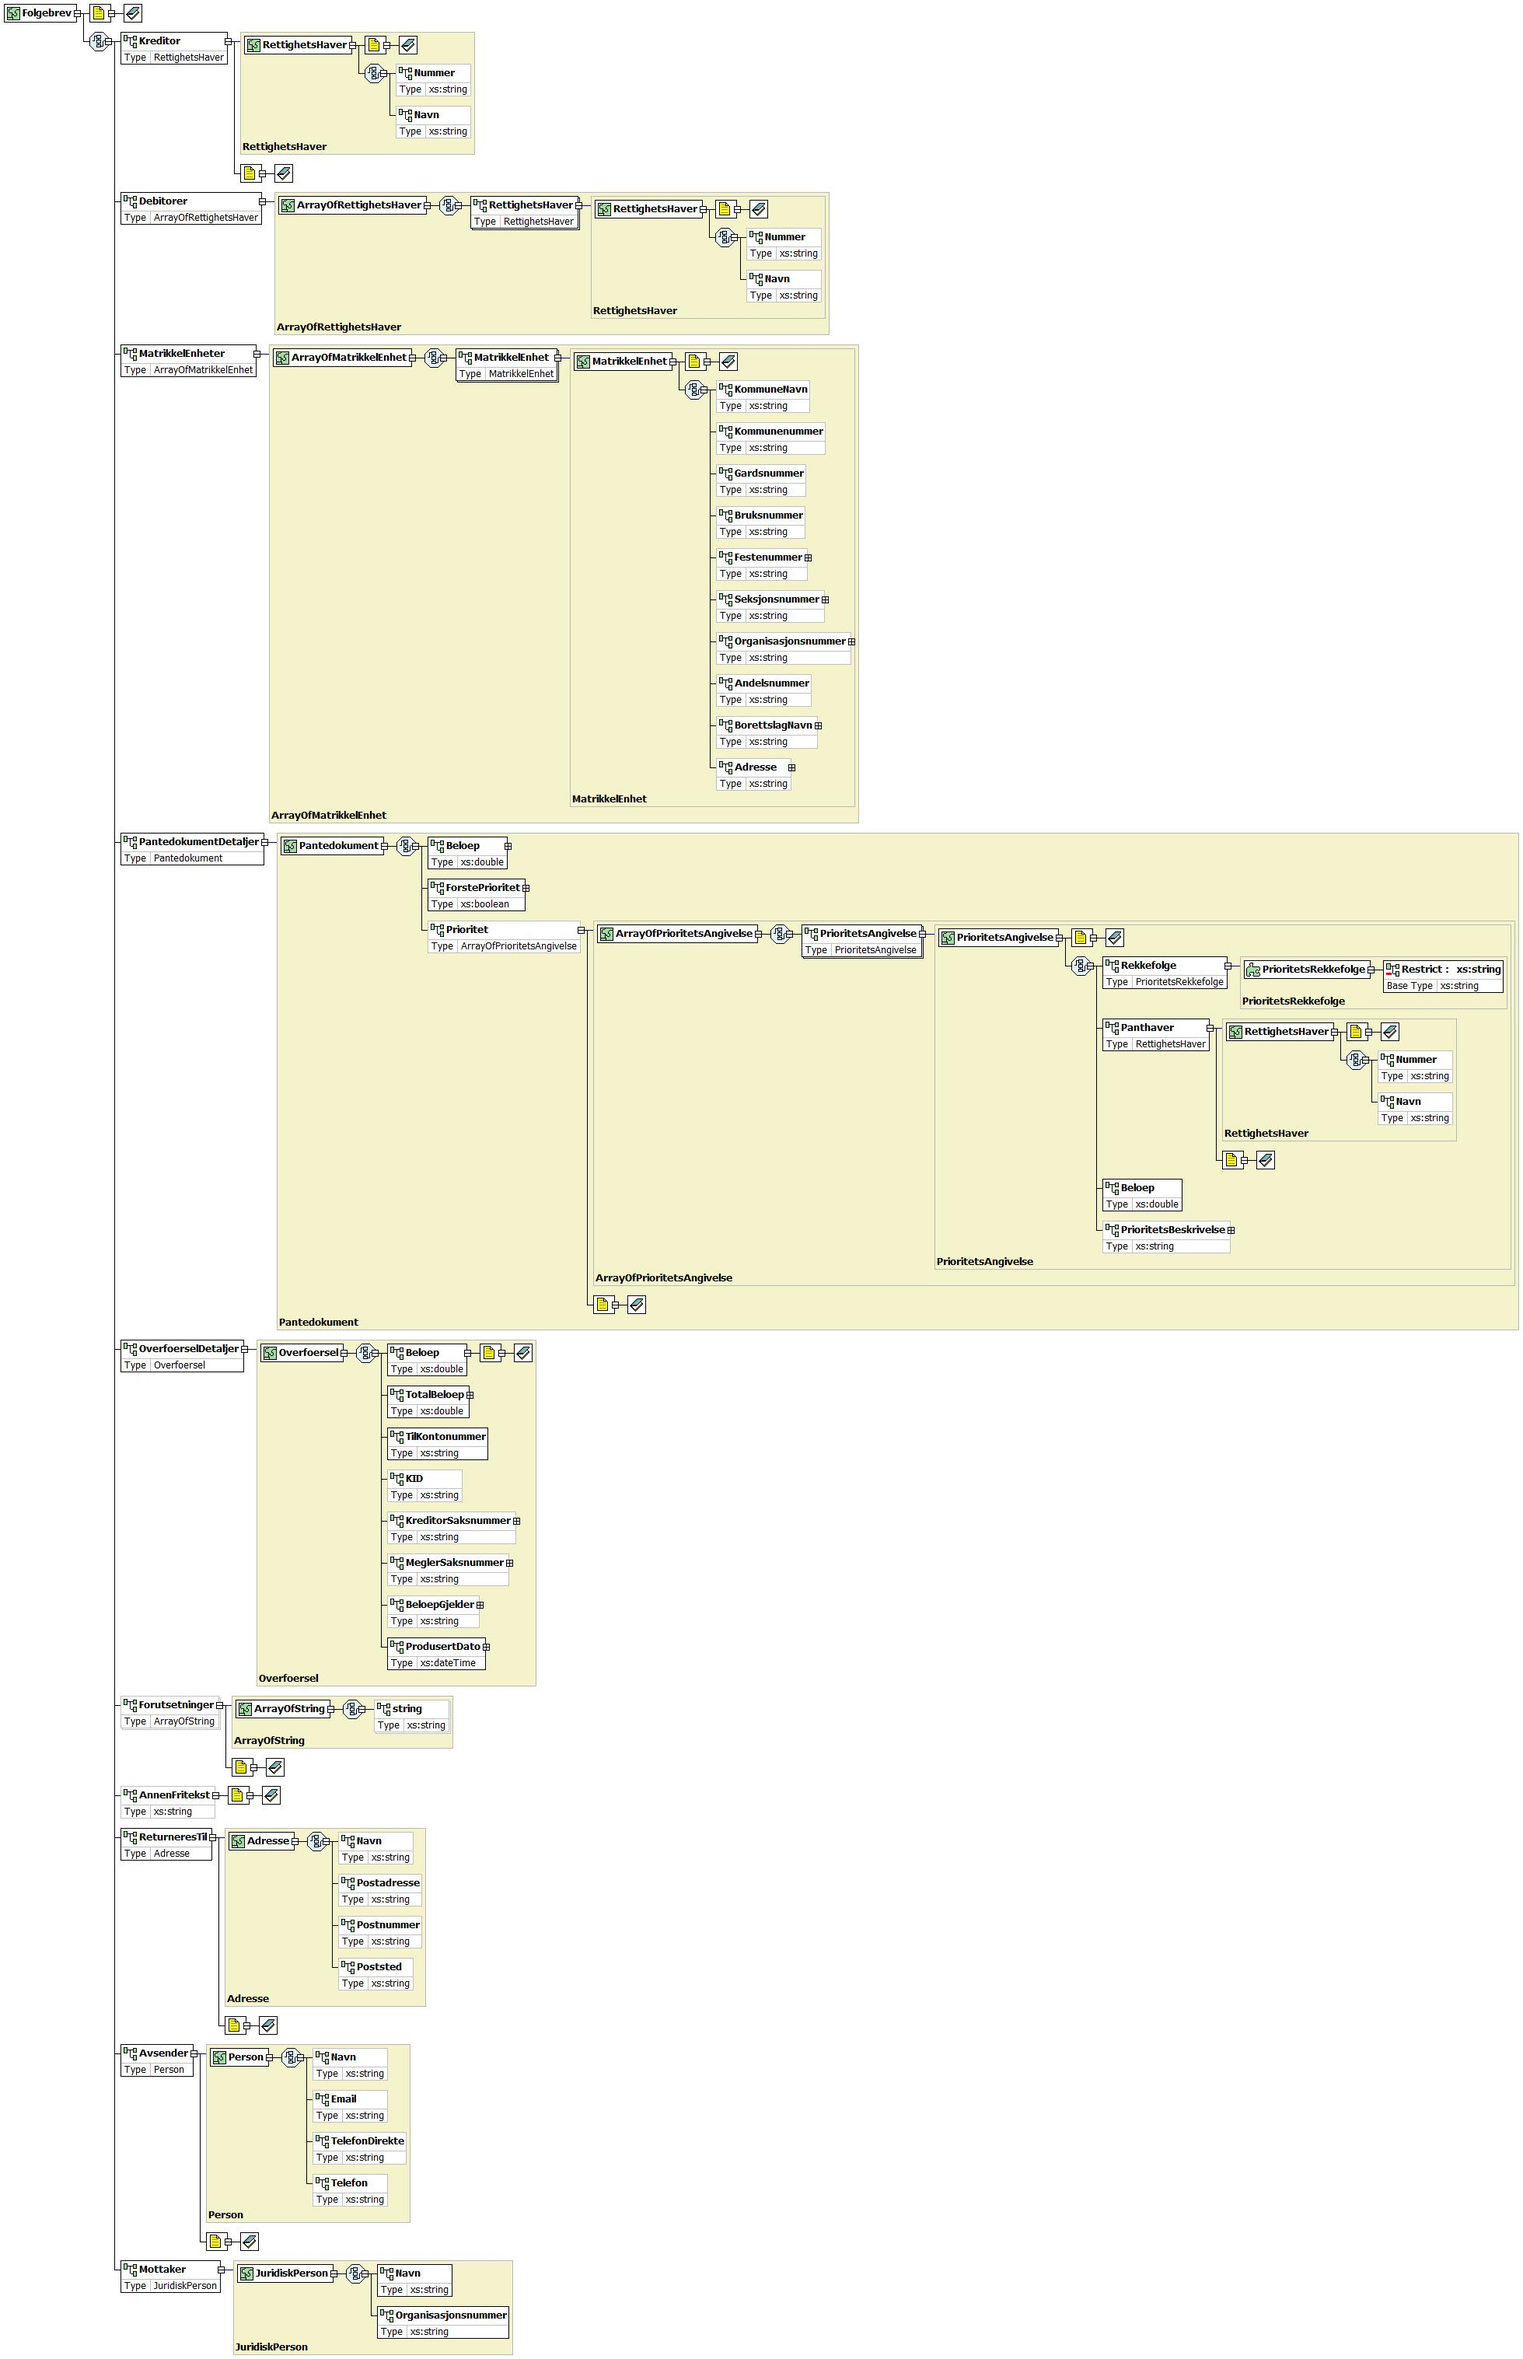
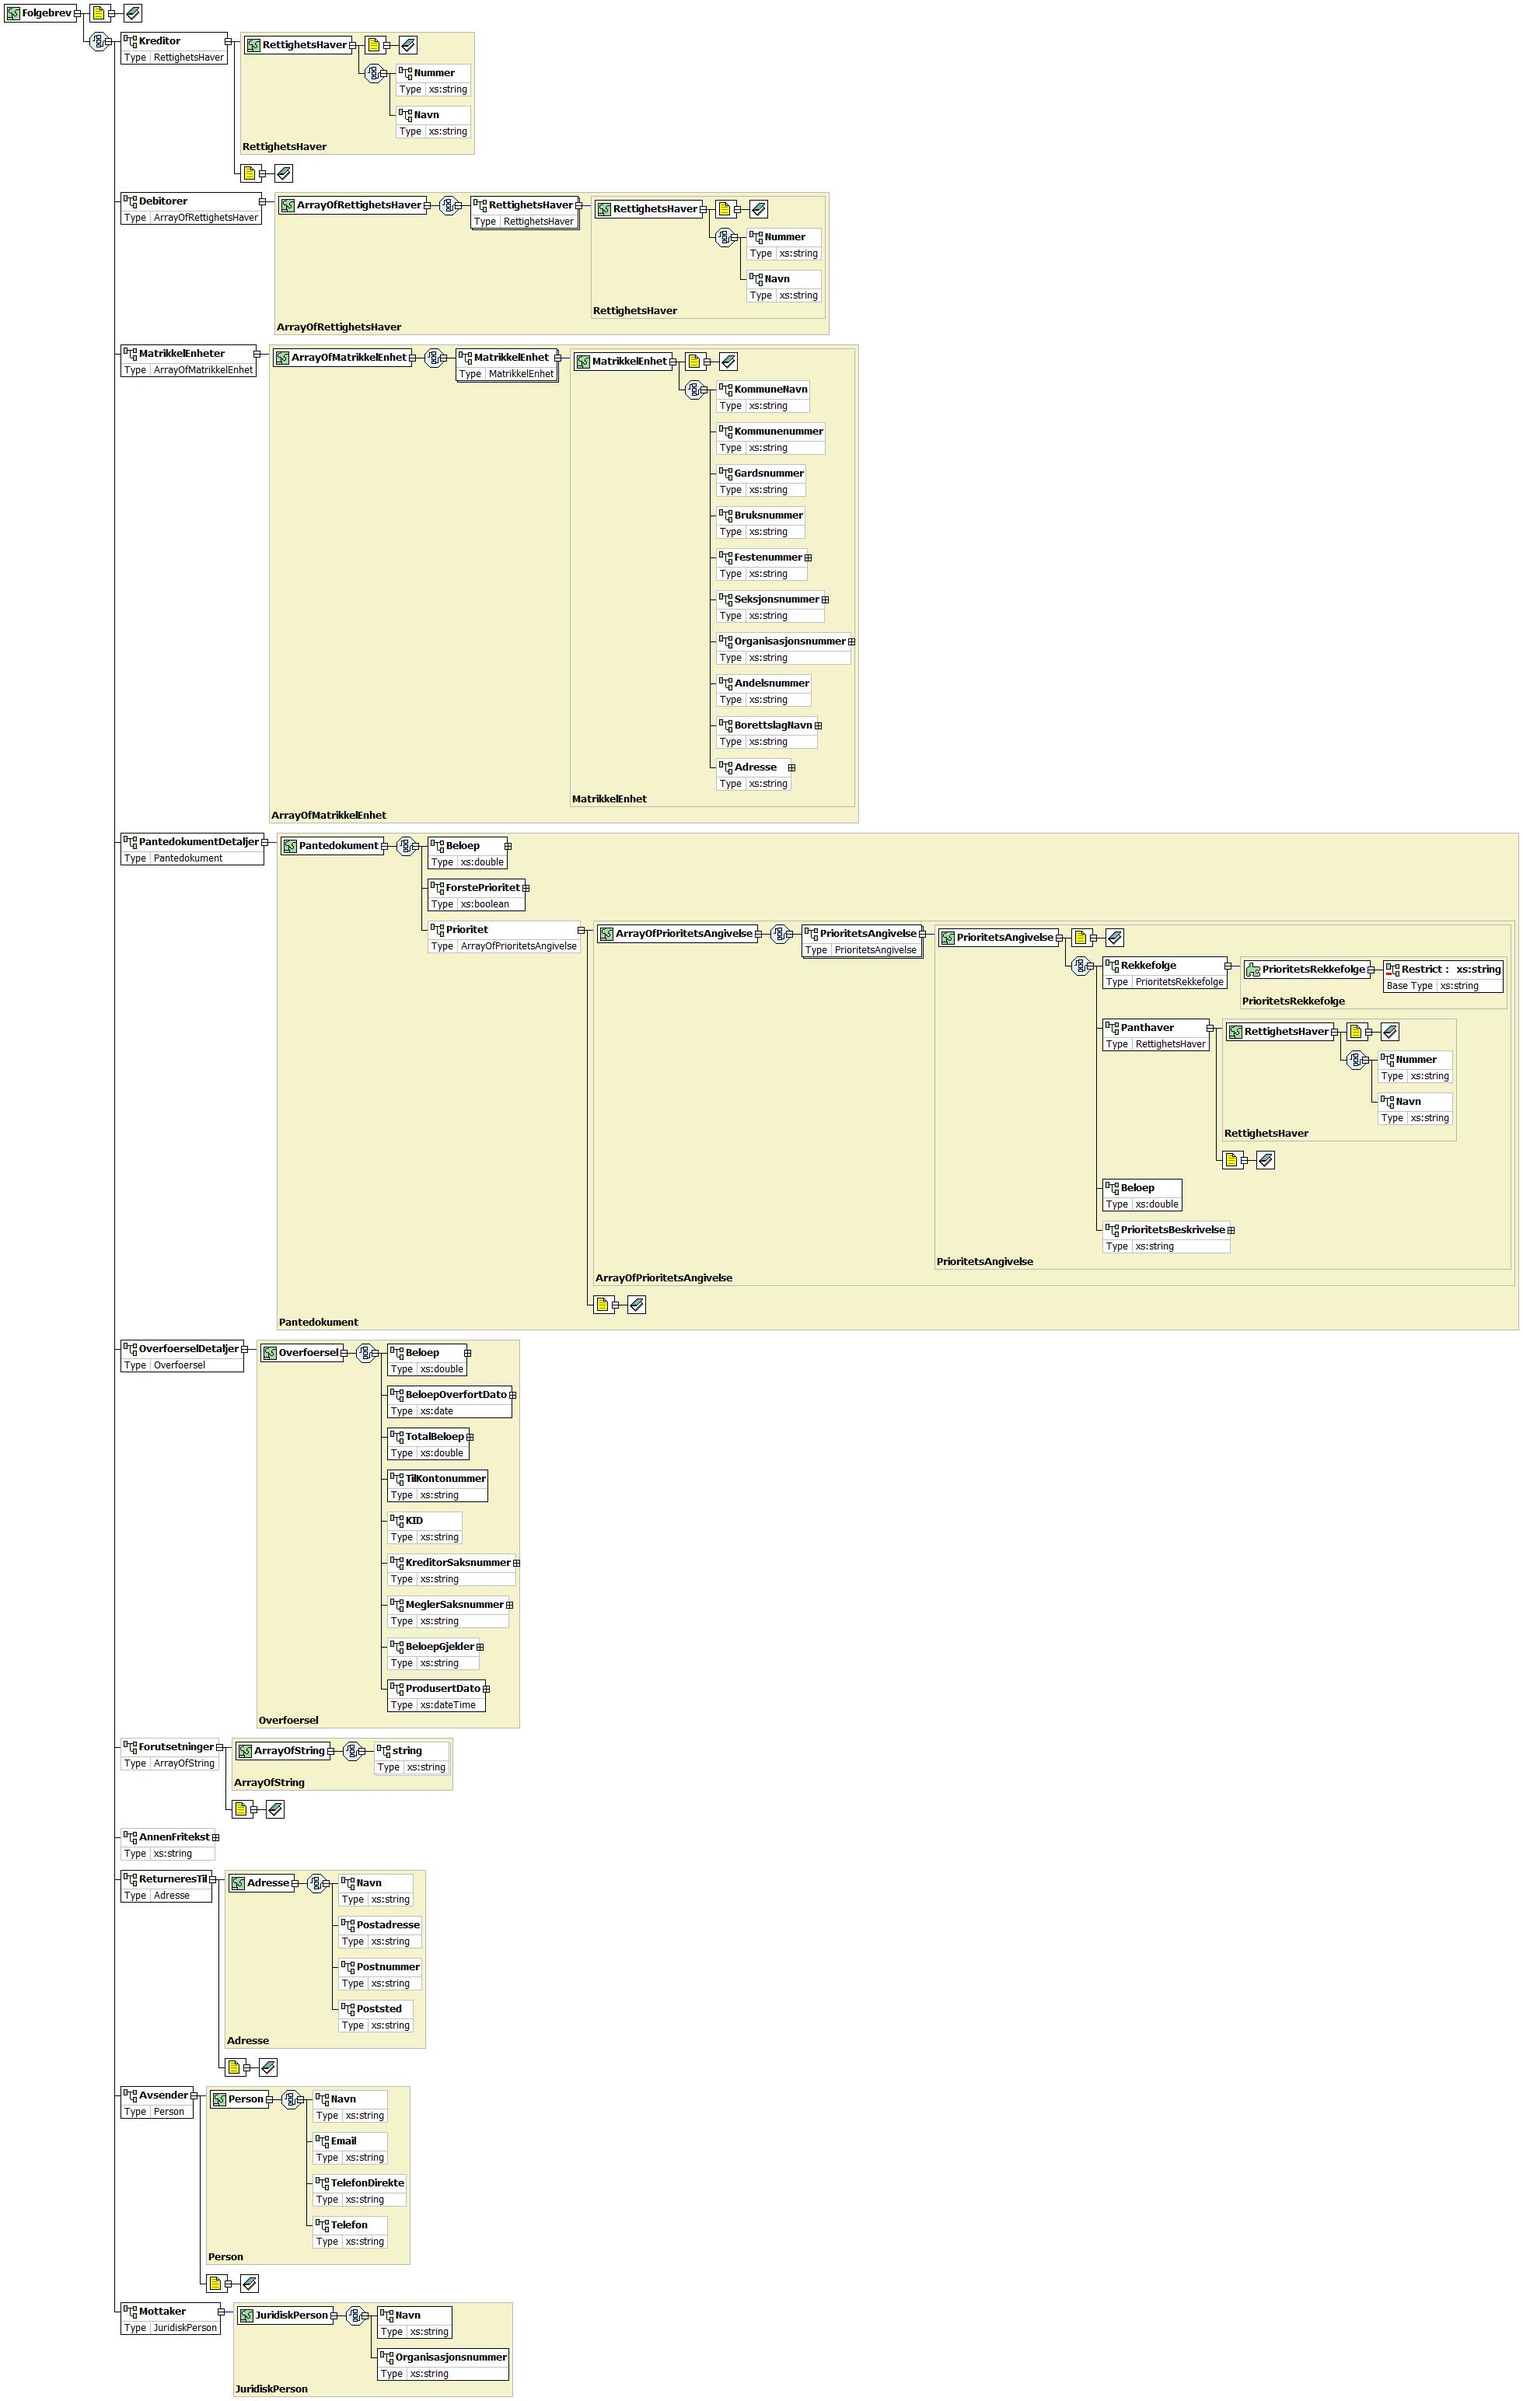
xslt: endret "Overført fra" til "Rettighetshavere" som er mer semantisk korrekt. oppdatert eksempelkode og screenshots

Changed region(s): [[0.0623, 0.0, 0.9964, 1.0], [0.2491, 0.9604, 0.3114, 0.9914], [0.0934, 0.9604, 0.1246, 0.9914]]

diff --git a/spesifikasjoner/afpant/afpant-folgebrev/afpant-folgebrev-example/Program.cs b/spesifikasjoner/afpant/afpant-folgebrev/afpant-folgebrev-example/Program.cs
@@ -6,7 +6,7 @@ using System.Text;
 using System.Threading.Tasks;
 using System.Xml;
 using System.Xml.Serialization;
-using static AFPANT.Folgebrev;
+using static Folgebrev;
 
 namespace afpant_folgebrev_example
 {
@@ -20,7 +20,7 @@ namespace afpant_folgebrev_example
         static void Example1()
         {
 
-            var folgebrev = new AFPANT.Folgebrev();
+            var folgebrev = new Folgebrev();
 
             folgebrev.Mottaker = new JuridiskPerson()
             {
@@ -46,7 +46,7 @@ namespace afpant_folgebrev_example
                     Navn="Anne Arnesen",
                     Nummer="01017922113"
                 }
-            };
+            }.ToArray();
 
             folgebrev.MatrikkelEnheter = new List<MatrikkelEnhet>()
             {
@@ -59,7 +59,7 @@ namespace afpant_folgebrev_example
                      Festenummer="0",
                      Seksjonsnummer="41"
                 }
-            };
+            }.ToArray();
 
             folgebrev.PantedokumentDetaljer = new Pantedokument()
             {
@@ -70,6 +70,7 @@ namespace afpant_folgebrev_example
             folgebrev.OverfoerselDetaljer = new Overfoersel()
             {
                 Beloep = 2100000,
+                BeloepOverfortDato = DateTime.Now.AddDays(-2).Date,                          
                 TotalBeloep = 2500000,
                 BeloepGjelder = "dekning av kjøpesum for ovennevnte eiendom",
                 TilKontonummer = "65501100000",
@@ -86,7 +87,7 @@ Det forutsettes videre at:
 - forutsetning A
 - og forutsetning B
 Eller at forutsetning C, og så videre."
-            };
+            }.ToArray();
 
             folgebrev.AnnenFritekst = "Dersom vi ikke har mottatt ovennevnte dokumenter innen 6 måneder fra dette brevs dato, ber vi Dem, av hensyn til bankens kontrollorganer, i god tid meddele når vi kan forvente å motta dokumentene i retur.";
 
@@ -110,7 +111,7 @@ Eller at forutsetning C, og så videre."
             //serialize to memory, append XSD + XSLT instructions, save to file
             using (var ms = new MemoryStream())
             {
-                var ser = new XmlSerializer(typeof(AFPANT.Folgebrev));                
+                var ser = new XmlSerializer(typeof(Folgebrev));                
                 ser.Serialize(ms, folgebrev);
                 ms.Seek(0, SeekOrigin.Begin);
 
@@ -128,7 +129,13 @@ Eller at forutsetning C, og så videre."
                 xmlDoc.InsertAfter(xsltProcessingInstruction, xmlDoc.FirstChild);
 
                 // persist to disk
-                xmlDoc.Save($"{Environment.CurrentDirectory}\\afpant-folgebrev-example1.xml");
+                var xmlExamplePath = $"{Environment.CurrentDirectory}\\afpant-folgebrev-example1.xml";
+                if (File.Exists(xmlExamplePath))
+                {
+                    File.Delete(xmlExamplePath);
+                }
+                // implicitly encoded as utf-8 without signature/BOM and XmlDeclaration 
+                xmlDoc.Save(xmlExamplePath);
             }
 
         }

diff --git a/spesifikasjoner/afpant/afpant-folgebrev/afpant-folgebrev/afpant-folgebrev-autogen/afpant-folgebrev-1_0_0.cs b/spesifikasjoner/afpant/afpant-folgebrev/afpant-folgebrev/afpant-folgebrev-autogen/afpant-folgebrev-1_0_0.cs
@@ -356,6 +356,7 @@ public partial class Overfoersel {
     }
     
     /// <remarks/>
+    [System.Xml.Serialization.XmlElementAttribute(DataType="date")]
     public System.DateTime BeloepOverfortDato {
         get {
             return this.beloepOverfortDatoField;
